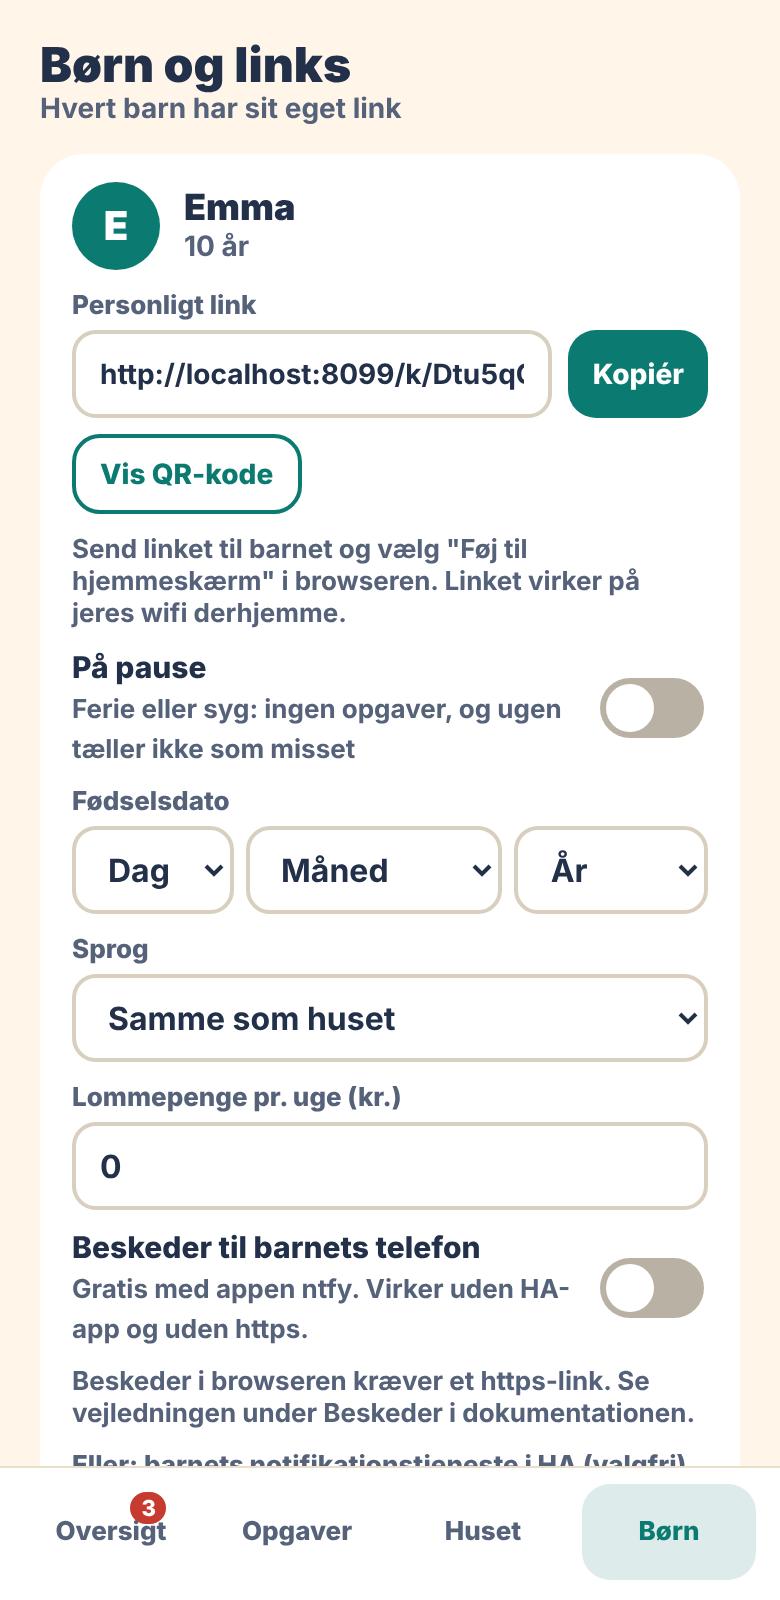
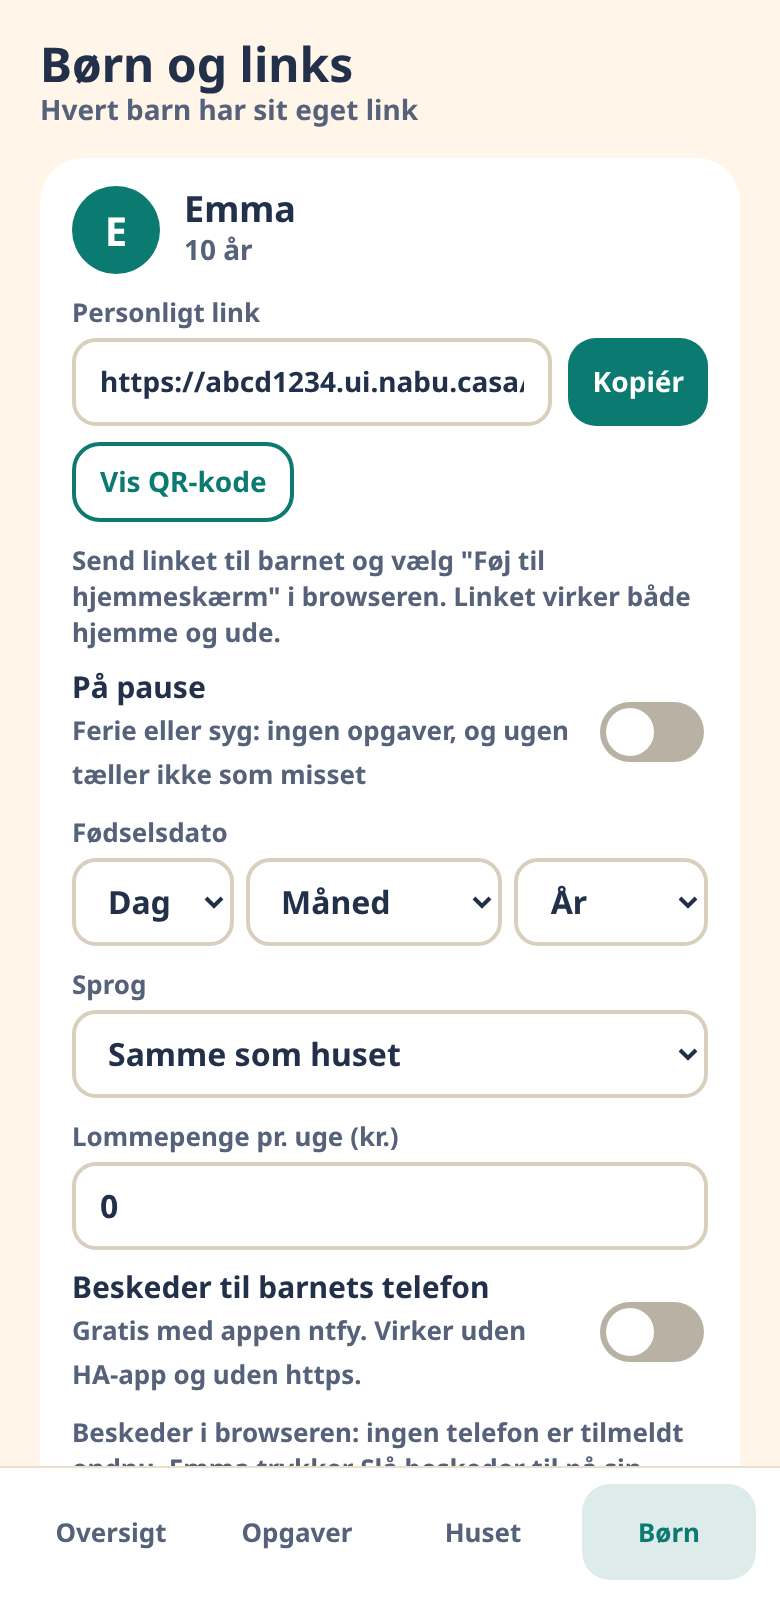
Parents' page: say when the link works away from home; new picture of the children tab

diff --git a/pligt-pilot/app/web/admin.html b/pligt-pilot/app/web/admin.html
@@ -484,6 +484,10 @@ button:focus-visible, input:focus-visible, select:focus-visible { outline: 3px s
     if (privateHost(location.hostname)) { return 'http://' + location.hostname + ':8099'; }
     return '';
   }
+  function outsideLink() {  // an https address that isn't on the home network: works away from home too
+    var m = /^https:\/\/([^/:]+)/.exec(linkBase());
+    return !!m && !privateHost(m[1]) && !/duckdns\.org$/.test(m[1]);
+  }
   function linkFor(k) {
     var base = linkBase();
     return base ? base + '/k/' + k.token + '/' : '';
@@ -690,7 +694,8 @@ button:focus-visible, input:focus-visible, select:focus-visible { outline: 3px s
             '<button class="btn small ghost" style="margin-top:8px" data-qr="' + k.id + '">' + (qrKid === k.id ? 'Skjul QR-kode' : 'Vis QR-kode') + '</button>' +
             (qrKid === k.id ? '<div class="qr">' + QR.svg(linkFor(k)) + '<div class="note">Hold barnets telefon hen foran skærmen, så åbner linket.</div></div>' : '') + '</div>'
           : '<div class="empty">Appen kan ikke se Home Assistants adresse derhjemme. Skriv den i indstillingen public_url, fx http://192.168.1.50:8099, så kommer linket frem.</div>') +
-        '<div class="note">Send linket til barnet og vælg "Føj til hjemmeskærm" i browseren. Linket virker på jeres wifi derhjemme.</div>' +
+        '<div class="note">' + (outsideLink() ? 'Send linket til barnet og vælg "Føj til hjemmeskærm" i browseren. Linket virker både hjemme og ude.'
+          : 'Send linket til barnet og vælg "Føj til hjemmeskærm" i browseren. Linket virker på jeres wifi derhjemme.') + '</div>' +
         '<div class="row"><div class="grow t"><b>På pause</b><span>Ferie eller syg: ingen opgaver, og ugen tæller ikke som misset</span></div>' +
         '<button class="sw" role="switch" aria-checked="' + (k.paused ? 'true' : 'false') + '" aria-label="' + esc(k.name) + ' er på pause" data-pause="' + k.id + '"><span></span></button></div>' +
         '<div><label for="b-' + k.id + '-d">Fødselsdato</label>' + dateSelects('b-' + k.id, k.birthday) + '</div>' +
@@ -701,7 +706,7 @@ button:focus-visible, input:focus-visible, select:focus-visible { outline: 3px s
         (k.ntfy_on ? '<div class="card" style="background:#FFF6E9;gap:6px"><div class="note">1. Installér appen <b>ntfy</b> på ' + esc(k.name) + 's telefon (gratis, App Store eller Google Play).<br>2. Tryk på + og vælg <b>Subscribe to topic</b>.<br>3. Skriv dette emne:</div>' +
         '<div class="linkbox"><input type="text" readonly aria-label="Emne" value="' + esc(k.ntfy) + '"></div>' +
         '<button class="btn small" data-testntfy="' + k.id + '">Send en prøvebesked</button></div>' : '') +
-        '<div class="note">' + (state.kid_https
+        '<div class="note">' + (state.kid_https || outsideLink()
           ? (k.push ? 'Beskeder i browseren: ' + k.push + (k.push === 1 ? ' telefon er' : ' telefoner er') + ' tilmeldt.' : 'Beskeder i browseren: ingen telefon er tilmeldt endnu. ' + esc(k.name) + ' trykker Slå beskeder til på sin side.')
           : 'Beskeder i browseren kræver et https-link. Se vejledningen under Beskeder i dokumentationen.') + '</div>' +
         (k.push ? '<button class="btn small ghost" data-testntfy="' + k.id + '">Send en prøvebesked</button>' : '') +
